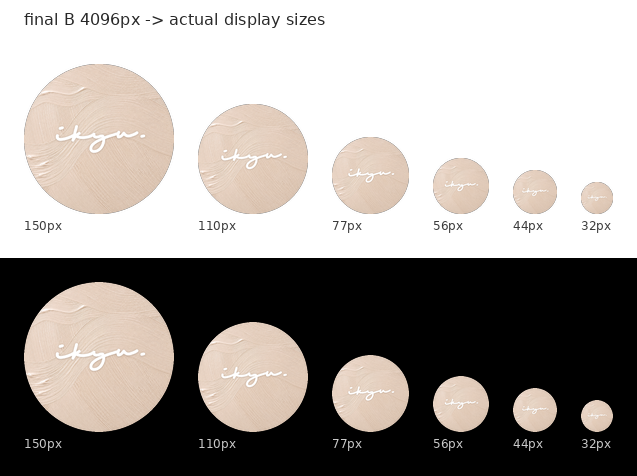
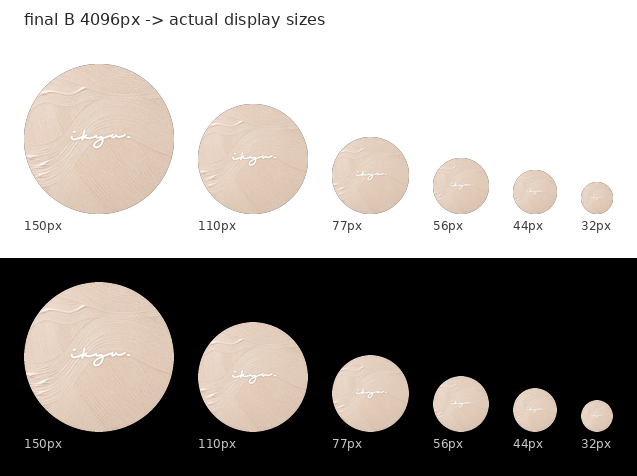
Instagram アイコン Version 5: ロゴ幅を 60% から 40% に変更
人間が参考画像（ロゴ幅 約 28%）を示して縮小を相談。60/40/28% を比較し、人間が 40% を指示。
角度 3.7°・陰影 B・右へ 1%・背景とロゴの形は維持。4096px を書き出し直し
（SHA-256 fec9be4c…、ロゴの拡大倍率 2.93 倍）。比較画像 compare-width-v5 を追加。
build.py の widths に比較する幅と出力名の引数を追加（既定の出力は変化なし）。

Claude-Session: https://claude.ai/code/session_018HXMQ5SW1MaVgJrLrjNWTE

diff --git a/design/instagram-icon/build.py b/design/instagram-icon/build.py
@@ -36,7 +36,7 @@ FINAL = HERE / "final"
 SUBTEXT_BOX = (340, 98)  # x >= 340 かつ y >= 98 を透明にする
 
 # レイアウト（キャンバス幅に対する比率）
-LOGO_WIDTH = 0.60  # ロゴの横幅（Version 4 で 78% → 60%。55/60/65% を比較して決定）
+LOGO_WIDTH = 0.40  # ロゴの横幅（Version 4 で 78% → 60%、Version 5 で 60% → 40%。人間が決定）
 OFFSET_X = 0.01  # ロゴ外接矩形の中心を、キャンバス中心からずらす量（右が正）。重心が左寄りのため視覚補正
 OFFSET_Y = 0.0  # 同上（下が正）
 EDGE_PX = 1.5  # 高解像度化したロゴの縁（アンチエイリアス）の幅。出力画素
@@ -310,7 +310,7 @@ def stroke_px_src() -> float:
     return float(np.median(runs))
 
 
-def widths(candidates=(0.55, 0.60, 0.65), variant: str = "B") -> None:
+def widths(candidates=(0.55, 0.60, 0.65), variant: str = "B", name: str = "compare-width") -> None:
     """ロゴ幅の比較資料: 円形表示と実寸の小サイズ表示（150/77/44/32px、白・黒の画面）。"""
     global LOGO_WIDTH
     keep = LOGO_WIDTH
@@ -328,7 +328,7 @@ def widths(candidates=(0.55, 0.60, 0.65), variant: str = "B") -> None:
         LOGO_WIDTH = lw
         im = compose(1024, variant)
         x0 = pad + i * col_w
-        d.text((x0, 8), f"logo width {lw * 100:.0f}%", fill=(30, 30, 30), font=font(18))
+        d.text((x0, 8), f"logo width {lw * 100:.1f}%".replace(".0%", "%"), fill=(30, 30, 30), font=font(18))
         c = circle(im, big)
         sheet.paste(c, (x0, head), c)
         for r, (bgc, fg) in enumerate([((255, 255, 255), (60, 60, 60)), ((0, 0, 0), (200, 200, 200))]):
@@ -349,8 +349,8 @@ def widths(candidates=(0.55, 0.60, 0.65), variant: str = "B") -> None:
             "gap_left_right_to_circle_edge_ratio": [round(bb[0] / 512, 3), round((1024 - bb[2]) / 512, 3)],
         }
     LOGO_WIDTH = keep
-    sheet.save(PREVIEW / "compare-width.png", optimize=True)
-    (PREVIEW / "compare-width.json").write_text(json.dumps({"stroke_px_source": stroke, **info}, ensure_ascii=False, indent=2) + "\n")
+    sheet.save(PREVIEW / f"{name}.png", optimize=True)
+    (PREVIEW / f"{name}.json").write_text(json.dumps({"stroke_px_source": stroke, **info}, ensure_ascii=False, indent=2) + "\n")
     print(json.dumps({"stroke_px_source": stroke, **info}, ensure_ascii=False, indent=2))
 
 
@@ -400,5 +400,7 @@ if __name__ == "__main__":
     ap = argparse.ArgumentParser()
     ap.add_argument("cmd", choices=["mark", "preview", "widths", "final"])
     ap.add_argument("--variant", default="B", choices=list(VARIANTS))
+    ap.add_argument("--widths", default="0.55,0.60,0.65", help="widths: 比較するロゴ幅（カンマ区切り）")
+    ap.add_argument("--name", default="compare-width", help="widths: 出力ファイル名（拡張子なし）")
     a = ap.parse_args()
-    {"mark": make_mark, "preview": preview, "widths": widths, "final": lambda: final(a.variant)}[a.cmd]()
+    {"mark": make_mark, "preview": preview, "widths": lambda: widths(tuple(float(v) for v in a.widths.split(",")), a.variant, a.name), "final": lambda: final(a.variant)}[a.cmd]()
